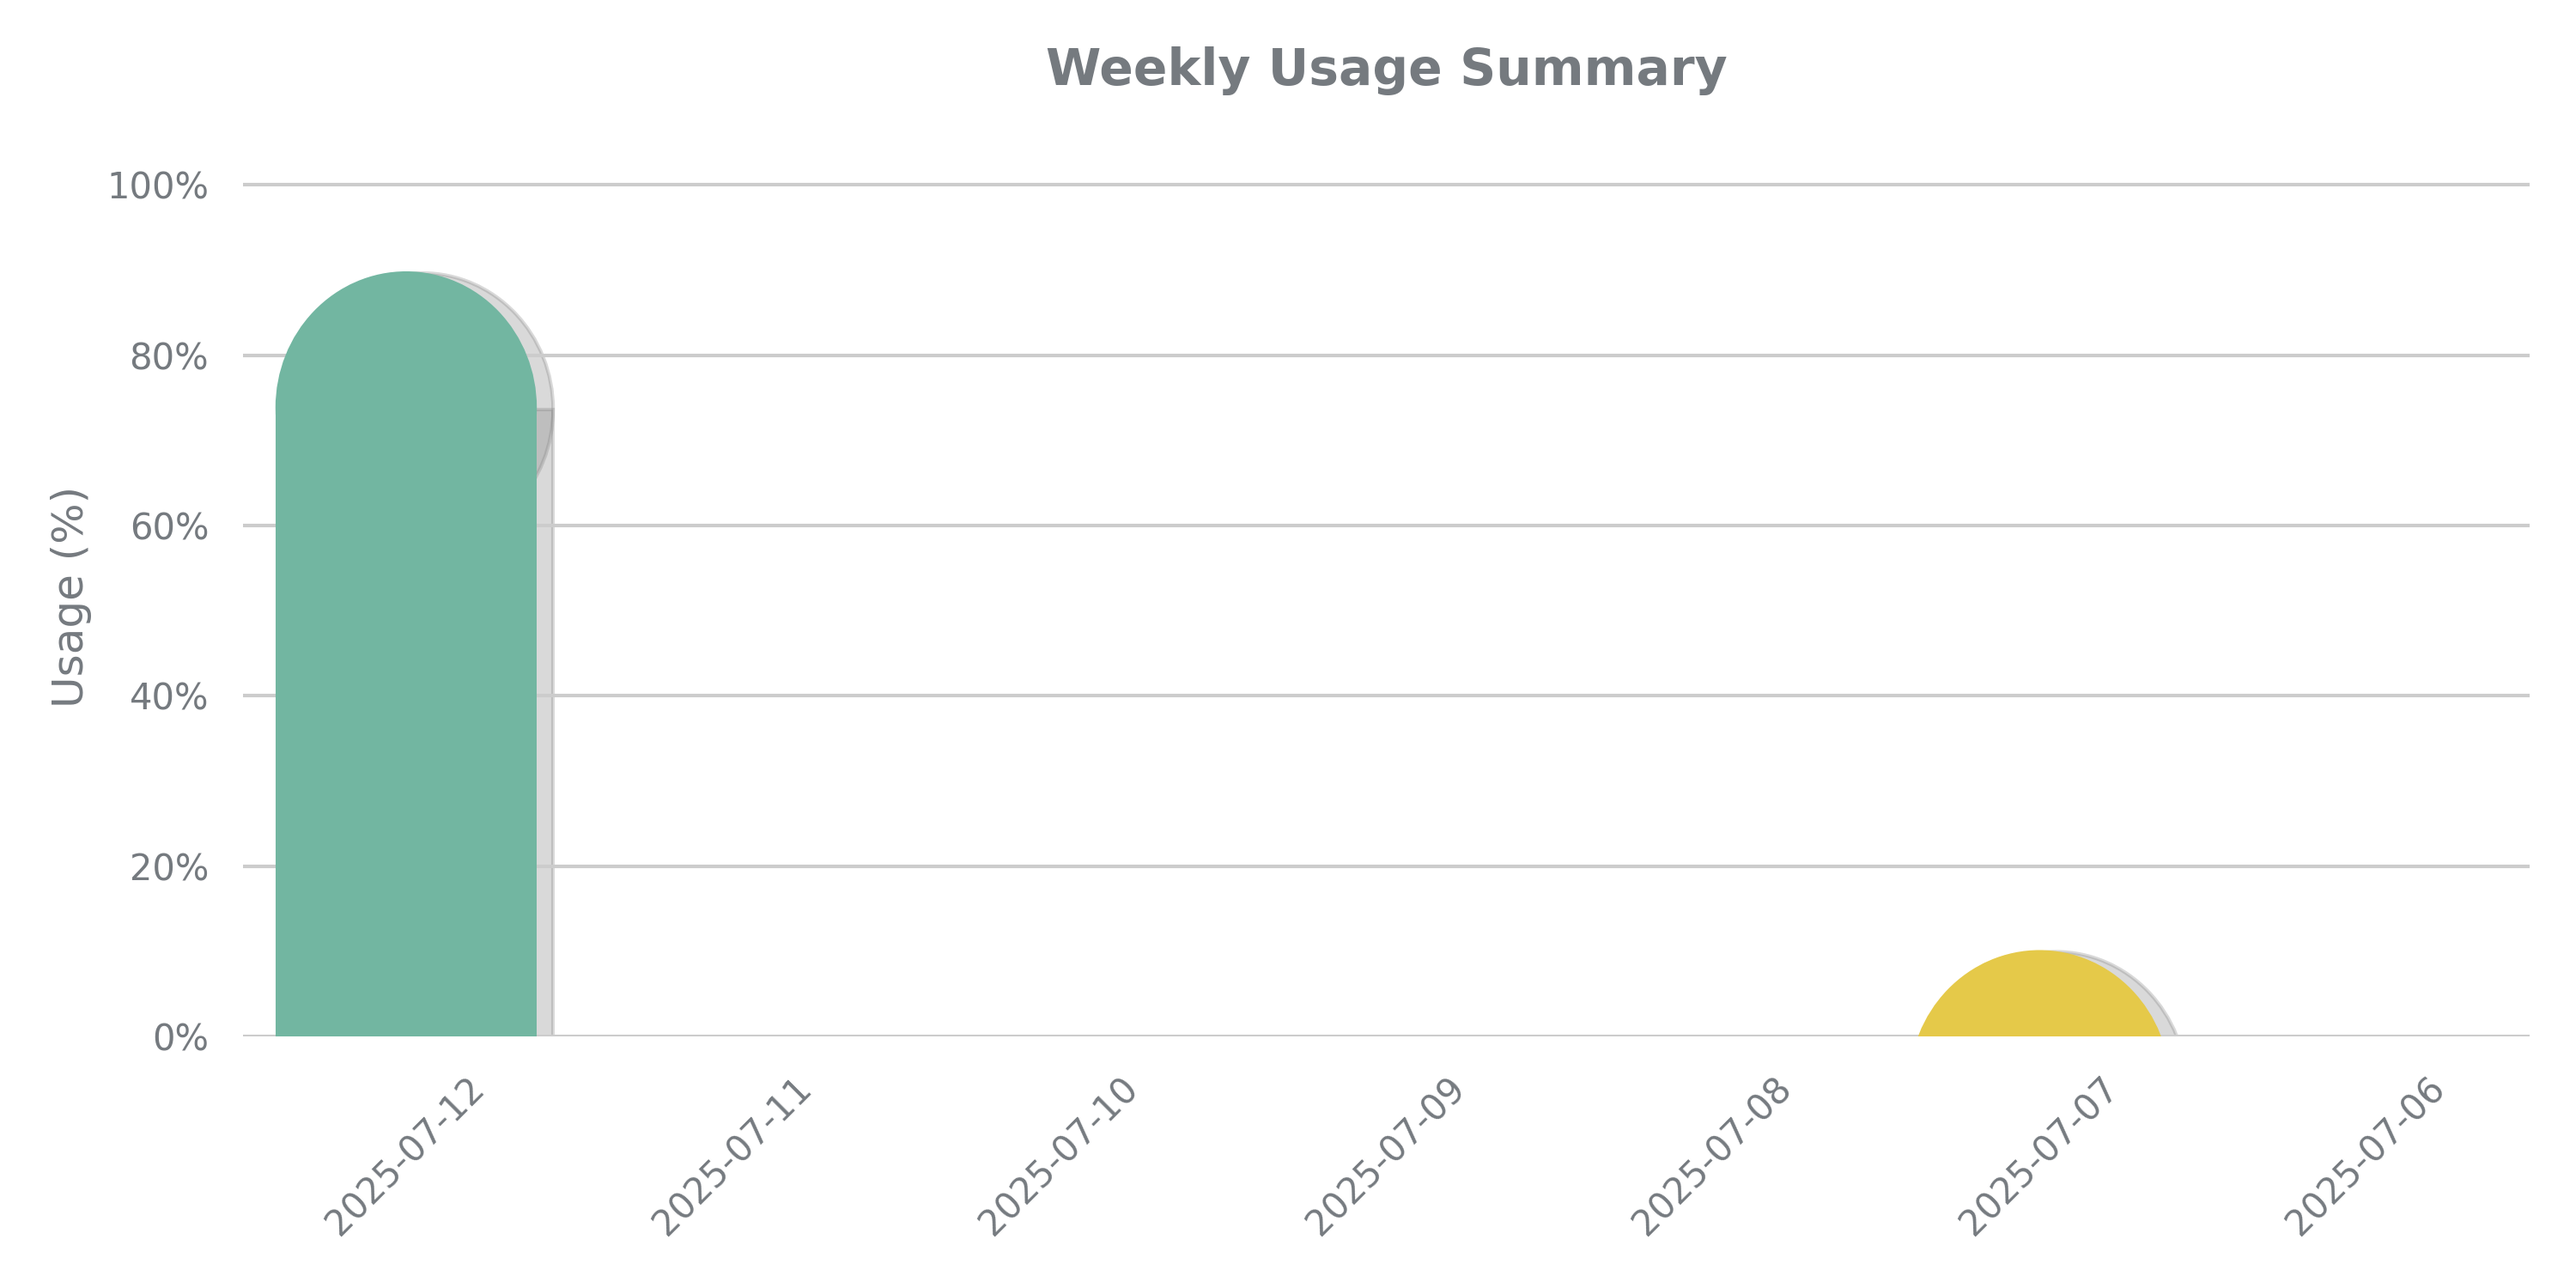
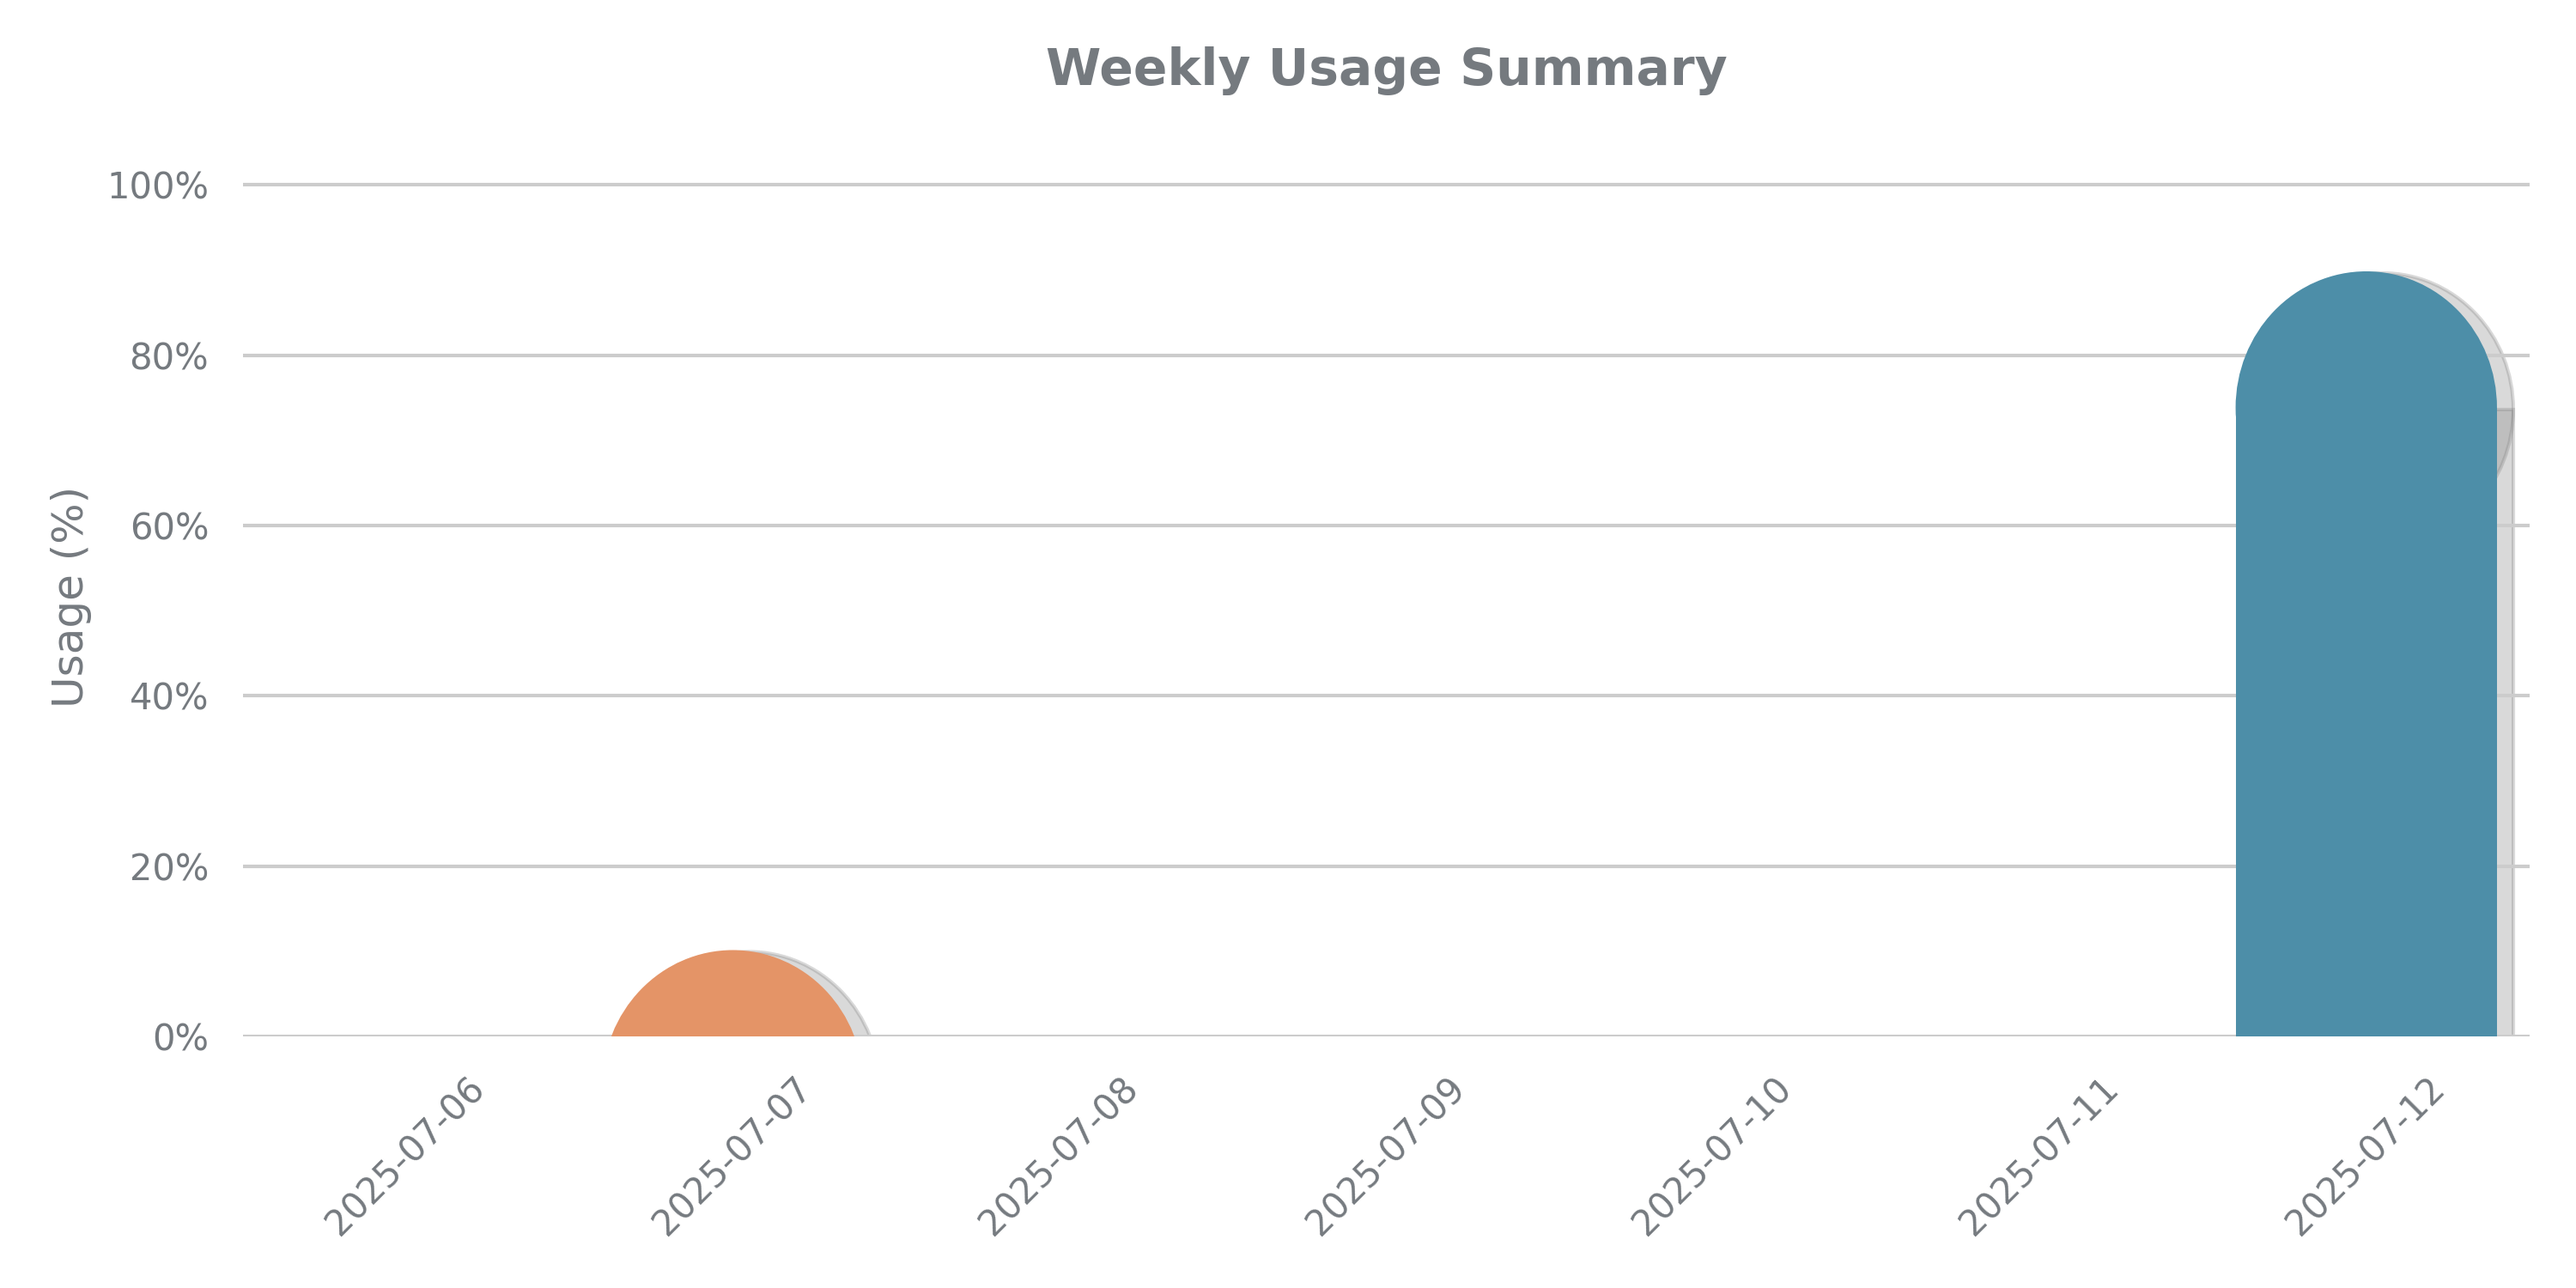
Changed chart colors

Changed region(s): [[0.093, 0.2147, 0.341, 0.8587], [0.868, 0.2147, 0.992, 0.8587], [0.744, 0.736, 0.837, 0.8587]]

diff --git a/src/graph.py b/src/graph.py
@@ -83,11 +83,11 @@ def plot_day_wise_summary_no_projects(stats, filename="day_wise_stats.png"):
     df = pd.DataFrame({
         'dates': dates,
         'usage': usages
-    })
+    })[::-1]
 
     text_color = "#757A7F"
     sns.set_theme(style="whitegrid")
-    colors = sns.color_palette("Set2", len(df))
+    colors = sns.color_palette("Spectral", len(df))
 
     fig, ax = plt.subplots(figsize=(10, 5))
 
